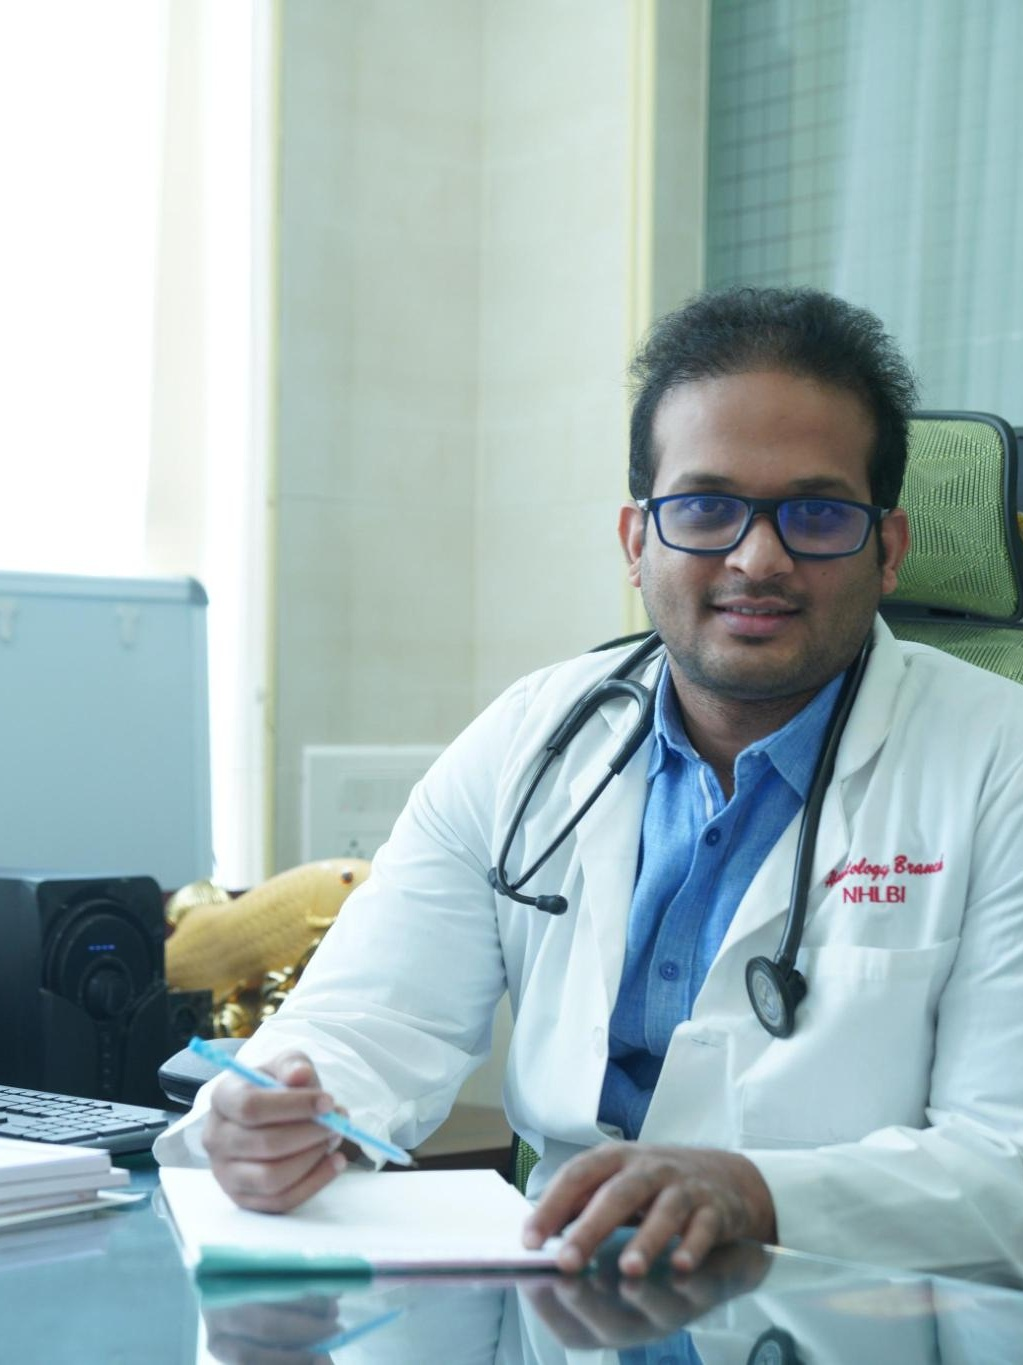
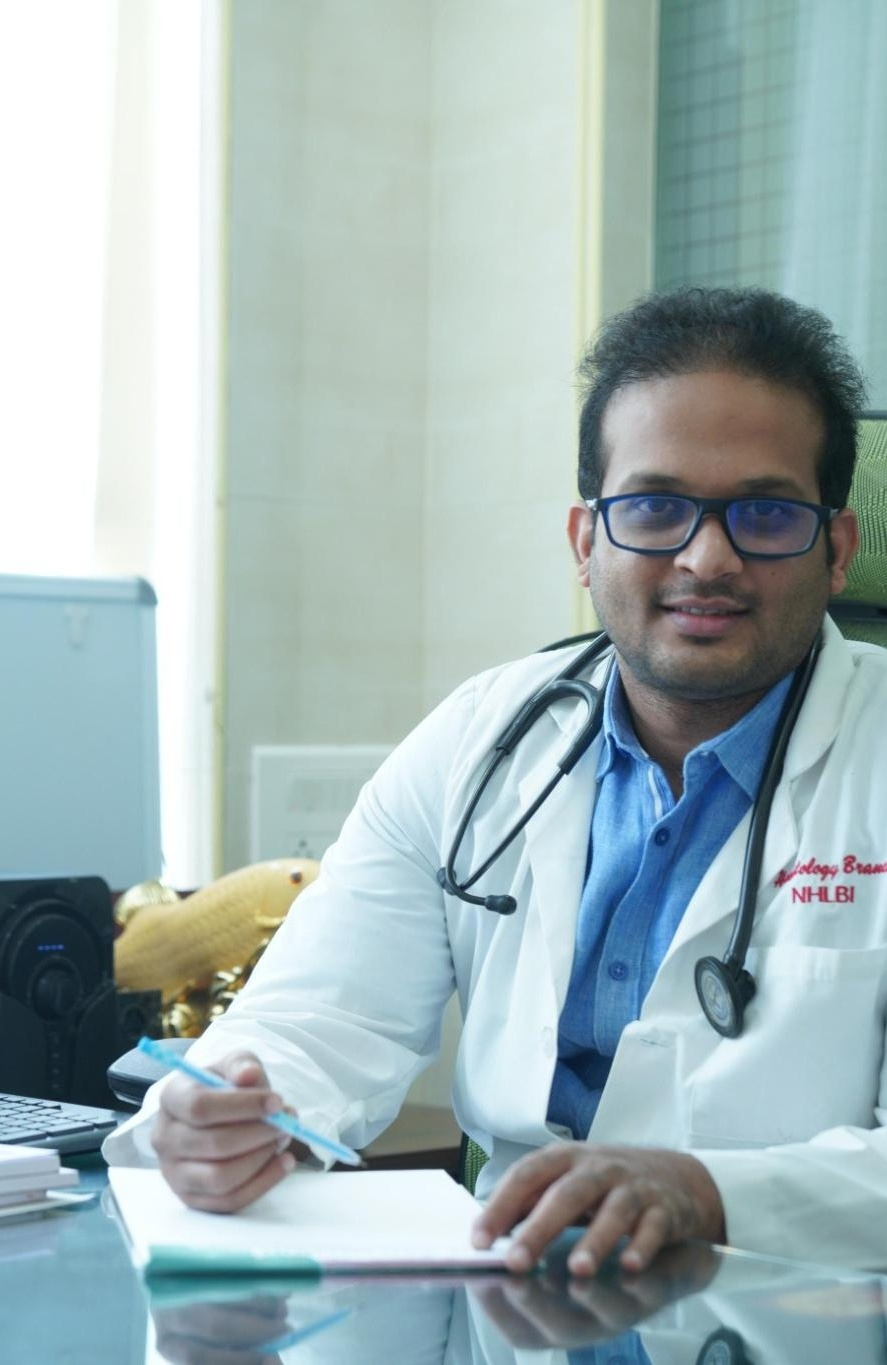
Shift crop window for Dr. Krishna Sravanth to center his face and reduce footer top padding to 16px

diff --git a/doctors.html b/doctors.html
@@ -22,7 +22,7 @@
   <link href="https://fonts.googleapis.com/css2?family=DM+Sans:ital,wght@0,400;0,500;0,700;0,800;1,400&family=Playfair+Display:wght@600;700;800&display=swap" rel="stylesheet" />
   
   <!-- Stylesheet -->
-  <link rel="stylesheet" href="style.css?v=950" />
+  <link rel="stylesheet" href="style.css?v=1100" />
   <!-- SEO JSON-LD Structured Data -->
   <script type="application/ld+json">
   {

diff --git a/style.css b/style.css
@@ -1633,7 +1633,7 @@ button, input, select, textarea {
 .footer {
   background: var(--navy-dark);
   color: #c4d7f5;
-  padding: 44px 0 20px 0;
+  padding: 32px 0 20px 0;
   border-top: 3px solid var(--blue);
   position: relative;
 }
@@ -1928,7 +1928,7 @@ button, input, select, textarea {
   }
 
   .footer {
-    padding: 28px 0 16px 0;
+    padding: 16px 0 14px 0;
   }
 
   .footer-grid {

diff --git a/blog.html b/blog.html
@@ -22,7 +22,7 @@
   <link href="https://fonts.googleapis.com/css2?family=DM+Sans:ital,wght@0,400;0,500;0,700;0,800;1,400&family=Playfair+Display:wght@600;700;800&display=swap" rel="stylesheet" />
   
   <!-- Stylesheet -->
-  <link rel="stylesheet" href="style.css?v=950" />
+  <link rel="stylesheet" href="style.css?v=1100" />
 </head>
 
 <body>

diff --git a/contact.html b/contact.html
@@ -22,7 +22,7 @@
   <link href="https://fonts.googleapis.com/css2?family=DM+Sans:ital,wght@0,400;0,500;0,700;0,800;1,400&family=Playfair+Display:wght@600;700;800&display=swap" rel="stylesheet" />
   
   <!-- Stylesheet -->
-  <link rel="stylesheet" href="style.css?v=950" />
+  <link rel="stylesheet" href="style.css?v=1100" />
 </head>
 
 <body>

diff --git a/cookie-policy.html b/cookie-policy.html
@@ -21,7 +21,7 @@
   <link href="https://fonts.googleapis.com/css2?family=DM+Sans:ital,wght@0,400;0,500;0,700;0,800;1,400&family=Playfair+Display:wght@600;700;800&display=swap" rel="stylesheet" />
   
   <!-- Stylesheet -->
-  <link rel="stylesheet" href="style.css?v=950" />
+  <link rel="stylesheet" href="style.css?v=1100" />
 </head>
 
 <body>

diff --git a/facilities.html b/facilities.html
@@ -22,7 +22,7 @@
   <link href="https://fonts.googleapis.com/css2?family=DM+Sans:ital,wght@0,400;0,500;0,700;0,800;1,400&family=Playfair+Display:wght@600;700;800&display=swap" rel="stylesheet" />
   
   <!-- Stylesheet -->
-  <link rel="stylesheet" href="style.css?v=950" />
+  <link rel="stylesheet" href="style.css?v=1100" />
 </head>
 
 <body>

diff --git a/index.html b/index.html
@@ -30,7 +30,7 @@
   <link href="https://fonts.googleapis.com/css2?family=DM+Sans:ital,wght@0,400;0,500;0,700;0,800;1,400&family=Playfair+Display:wght@600;700;800&display=swap" rel="stylesheet" />
   
   <!-- Stylesheet -->
-  <link rel="stylesheet" href="style.css?v=950" />
+  <link rel="stylesheet" href="style.css?v=1100" />
 </head>
 
 <body>

diff --git a/locations.html b/locations.html
@@ -22,7 +22,7 @@
   <link href="https://fonts.googleapis.com/css2?family=DM+Sans:ital,wght@0,400;0,500;0,700;0,800;1,400&family=Playfair+Display:wght@600;700;800&display=swap" rel="stylesheet" />
   
   <!-- Stylesheet -->
-  <link rel="stylesheet" href="style.css?v=950" />
+  <link rel="stylesheet" href="style.css?v=1100" />
 </head>
 
 <body>

diff --git a/privacy-policy.html b/privacy-policy.html
@@ -21,7 +21,7 @@
   <link href="https://fonts.googleapis.com/css2?family=DM+Sans:ital,wght@0,400;0,500;0,700;0,800;1,400&family=Playfair+Display:wght@600;700;800&display=swap" rel="stylesheet" />
   
   <!-- Stylesheet -->
-  <link rel="stylesheet" href="style.css?v=950" />
+  <link rel="stylesheet" href="style.css?v=1100" />
 </head>
 
 <body>

diff --git a/specialties.html b/specialties.html
@@ -22,7 +22,7 @@
   <link href="https://fonts.googleapis.com/css2?family=DM+Sans:ital,wght@0,400;0,500;0,700;0,800;1,400&family=Playfair+Display:wght@600;700;800&display=swap" rel="stylesheet" />
   
   <!-- Stylesheet -->
-  <link rel="stylesheet" href="style.css?v=950" />
+  <link rel="stylesheet" href="style.css?v=1100" />
 </head>
 
 <body>

diff --git a/terms-conditions.html b/terms-conditions.html
@@ -21,7 +21,7 @@
   <link href="https://fonts.googleapis.com/css2?family=DM+Sans:ital,wght@0,400;0,500;0,700;0,800;1,400&family=Playfair+Display:wght@600;700;800&display=swap" rel="stylesheet" />
   
   <!-- Stylesheet -->
-  <link rel="stylesheet" href="style.css?v=950" />
+  <link rel="stylesheet" href="style.css?v=1100" />
 </head>
 
 <body>
